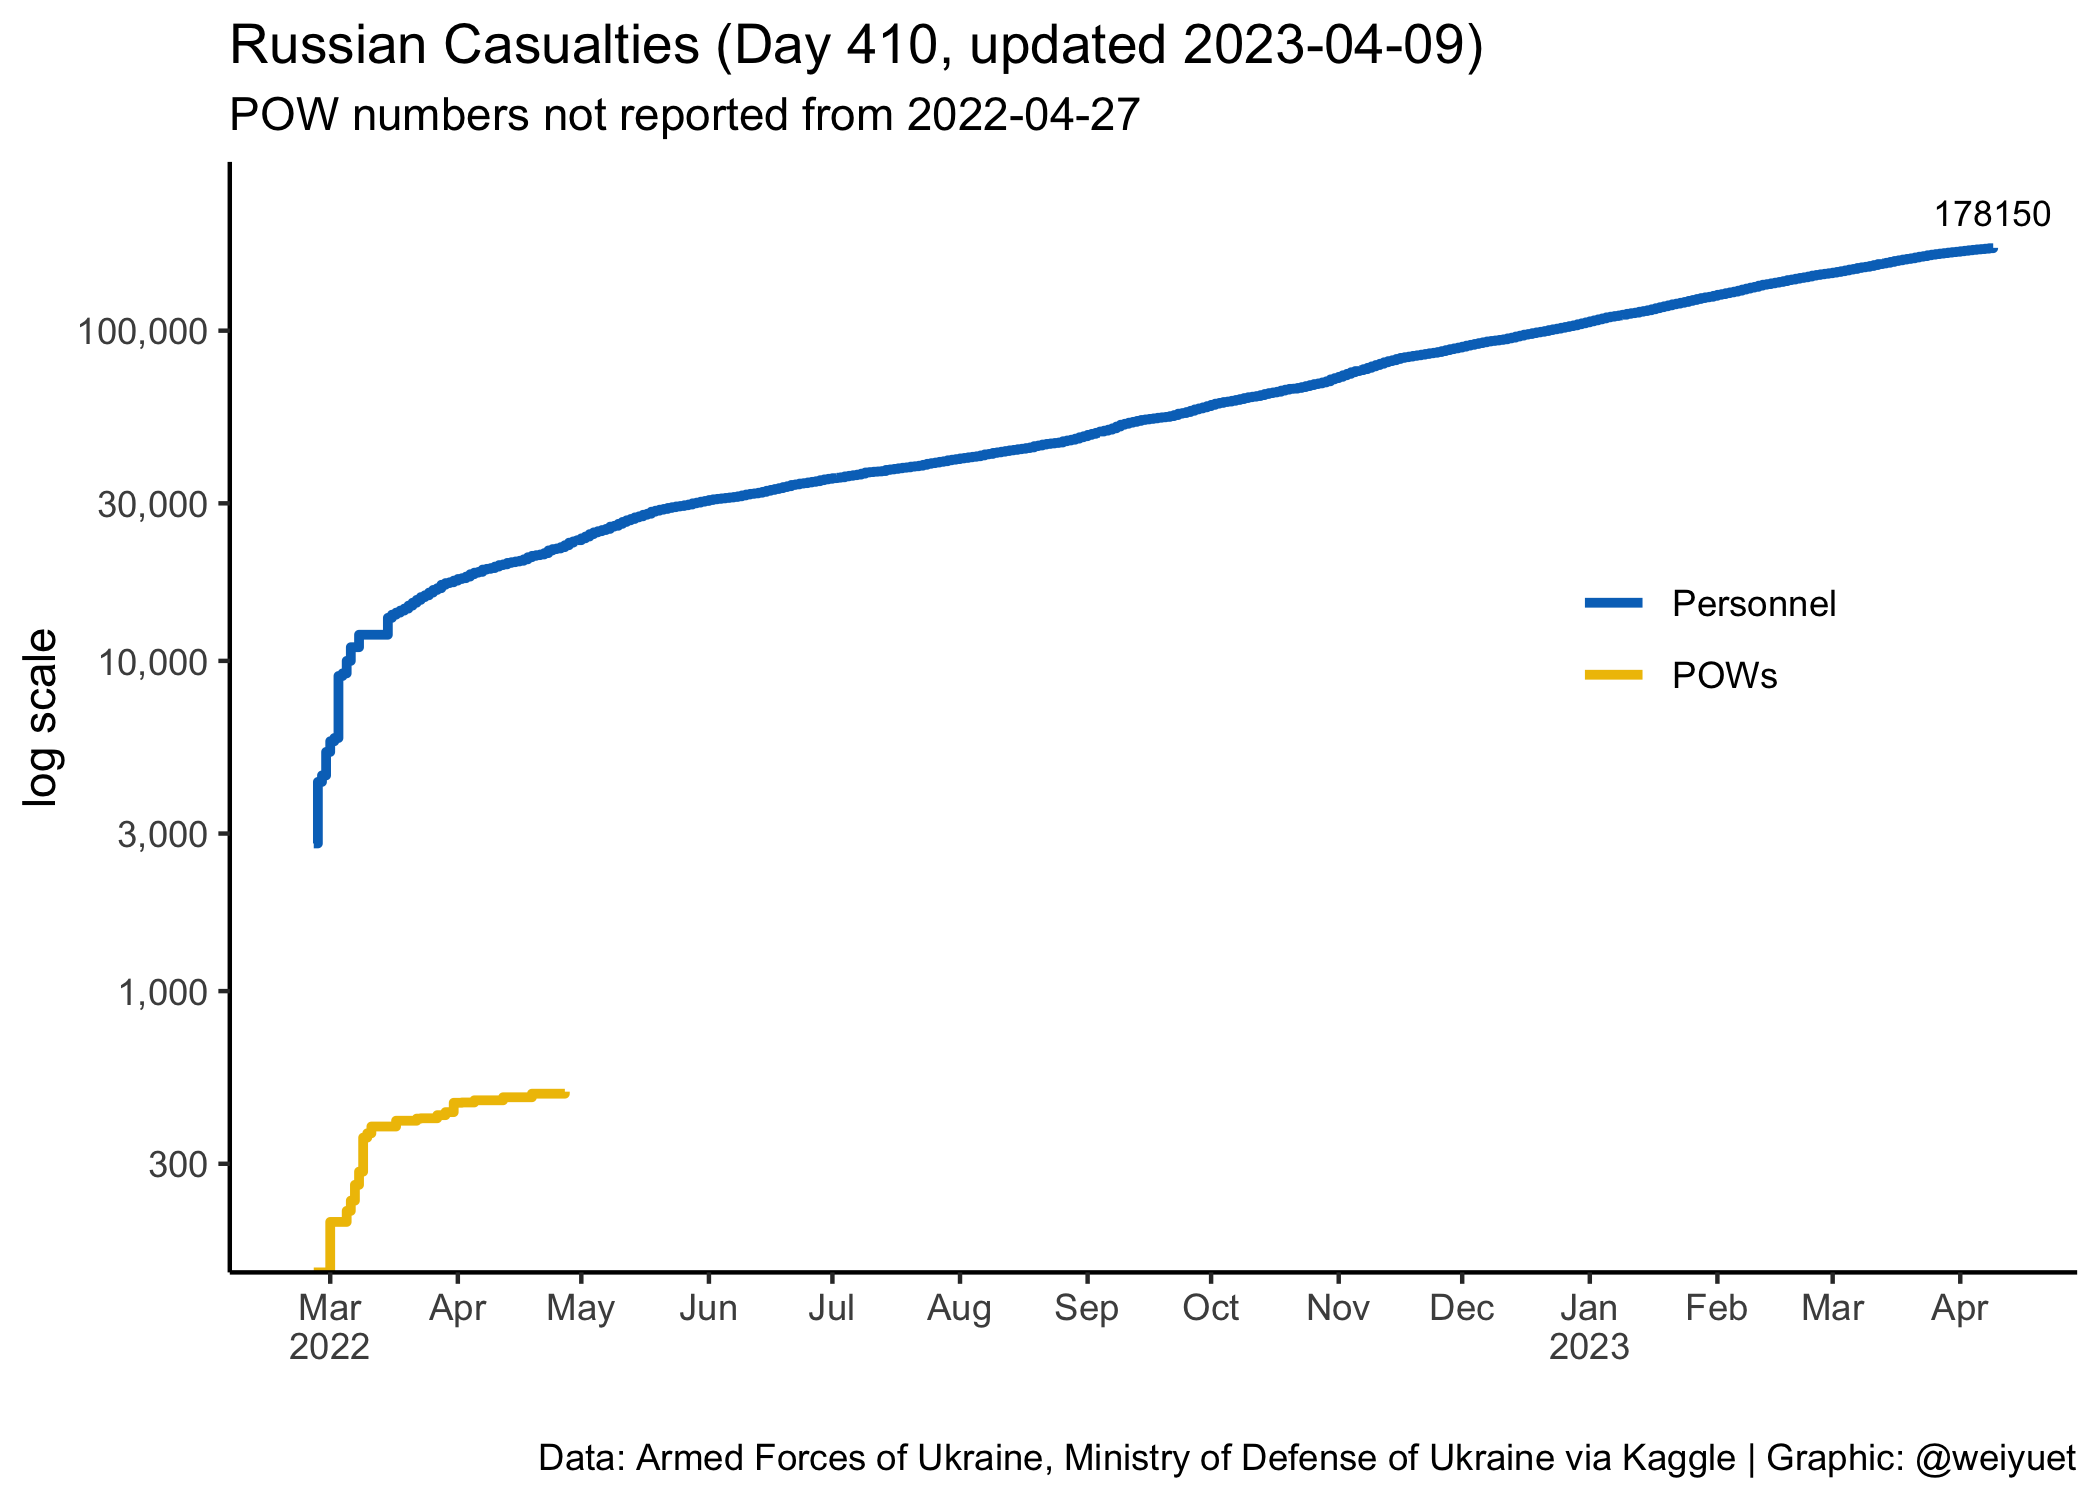
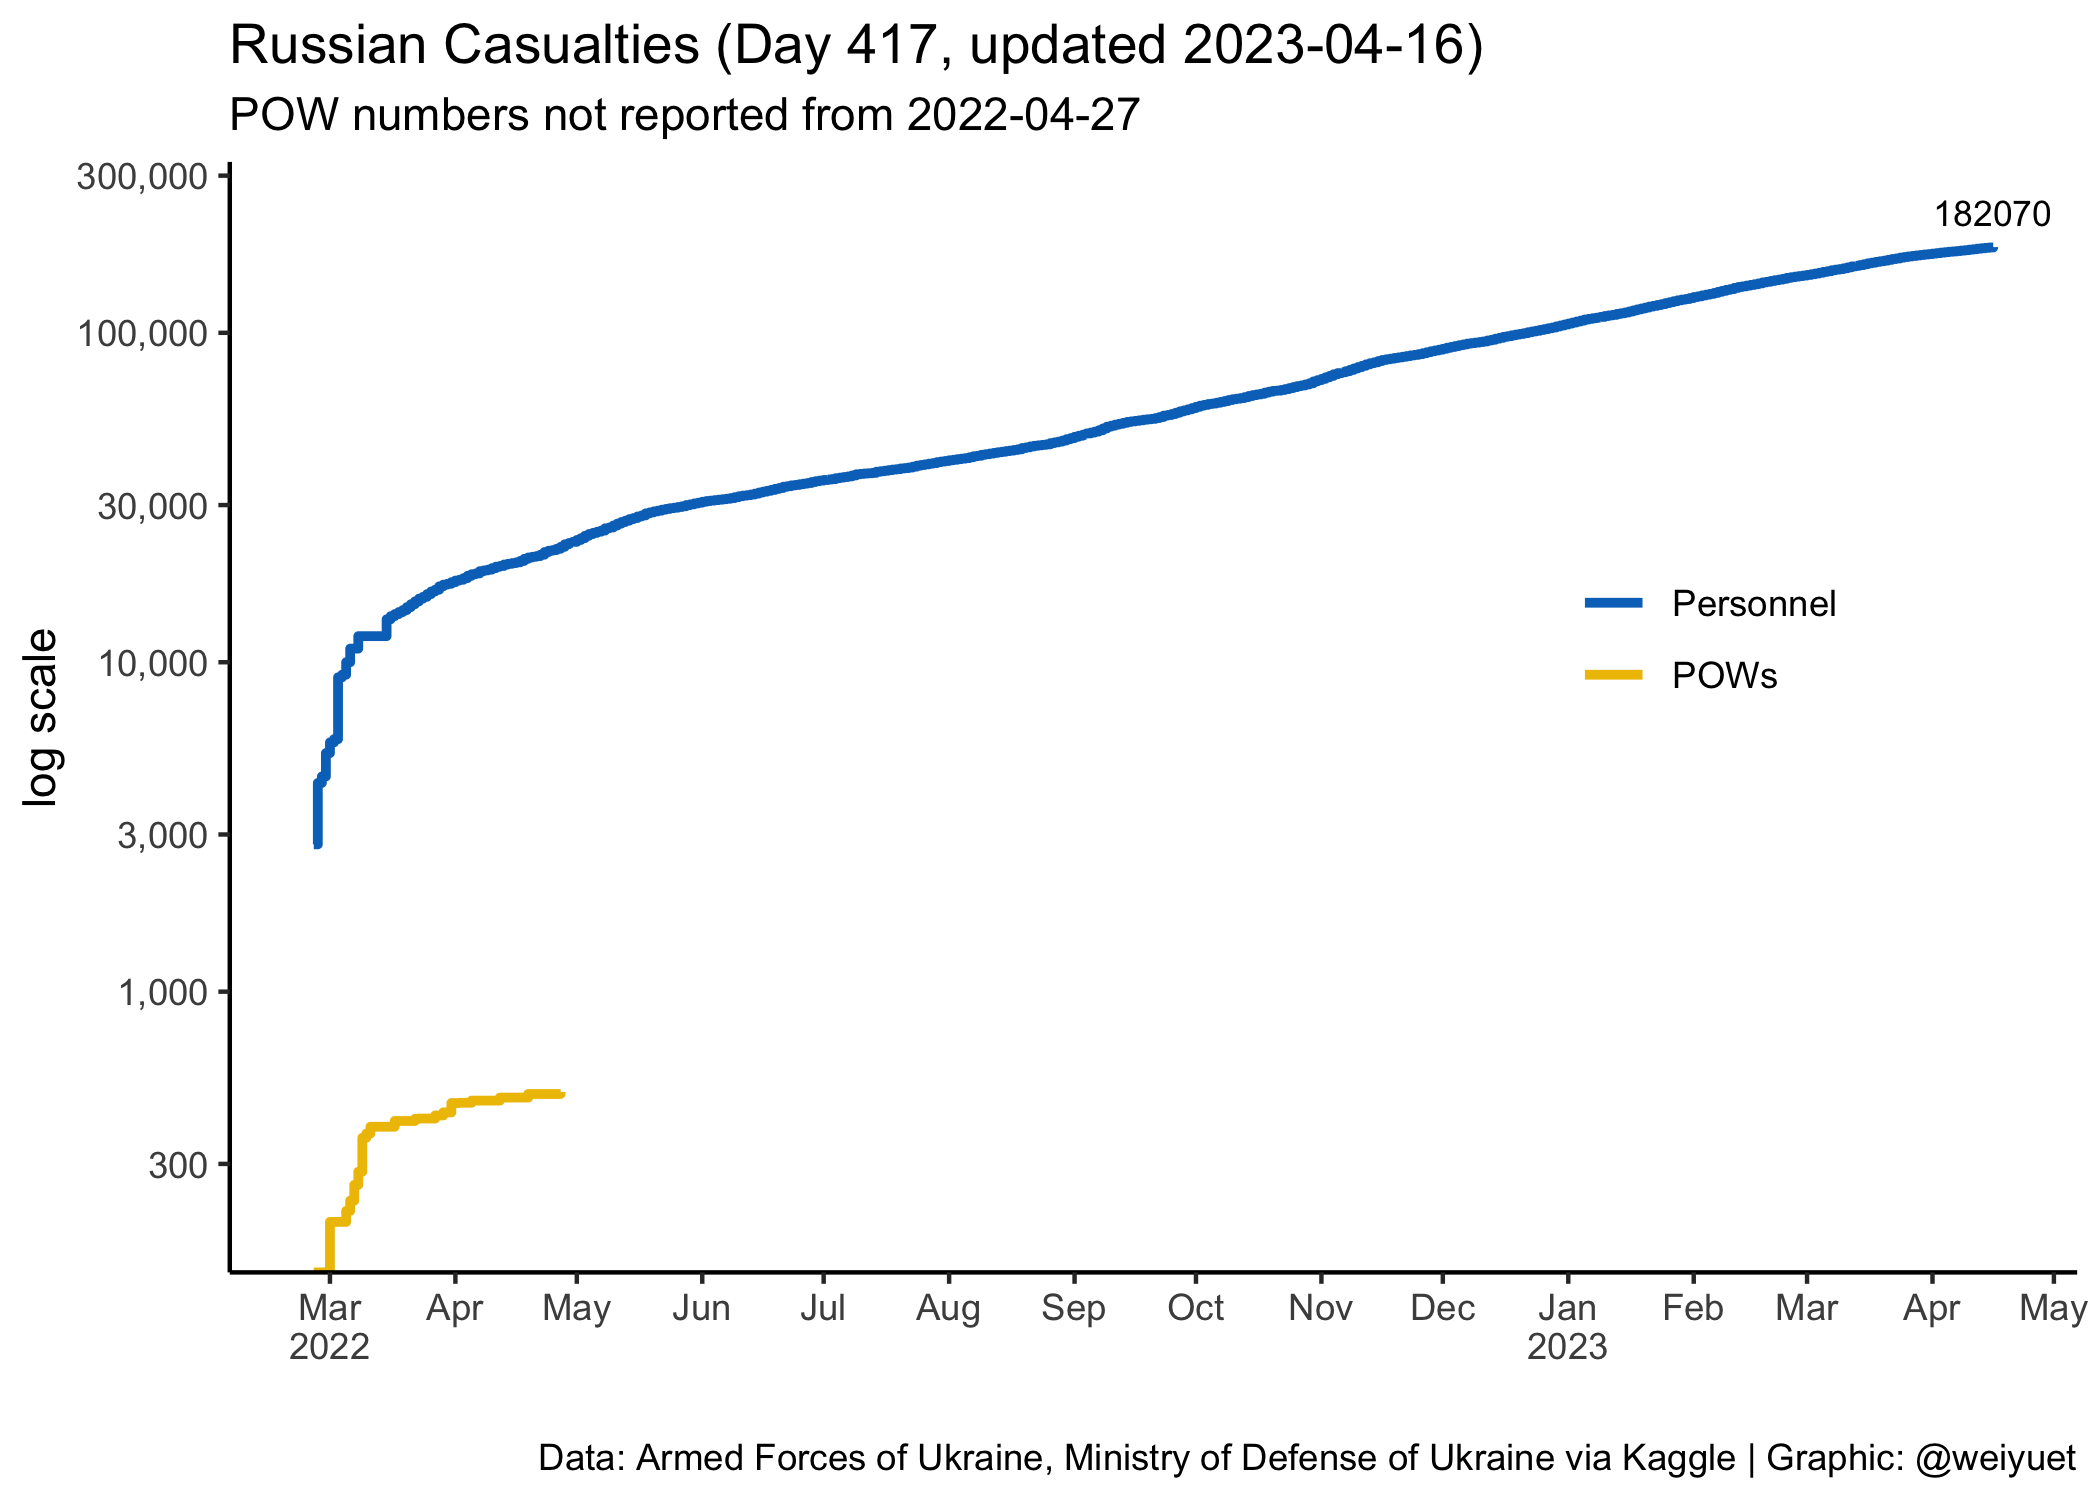
Updated 16 April

diff --git a/README.md b/README.md
@@ -6,7 +6,7 @@ Wong Wei Yuet 2022-05-26
 
   - War casualty data updated daily from [`Petro Ivanyuk's Kaggle`](https://www.kaggle.com/datasets/piterfm/2022-ukraine-russian-war). All data is official and put together by `Petro`
 
-Updated: 2023-04-10
+Updated: 2023-04-16
 
 ## Summary of Conflict
 
